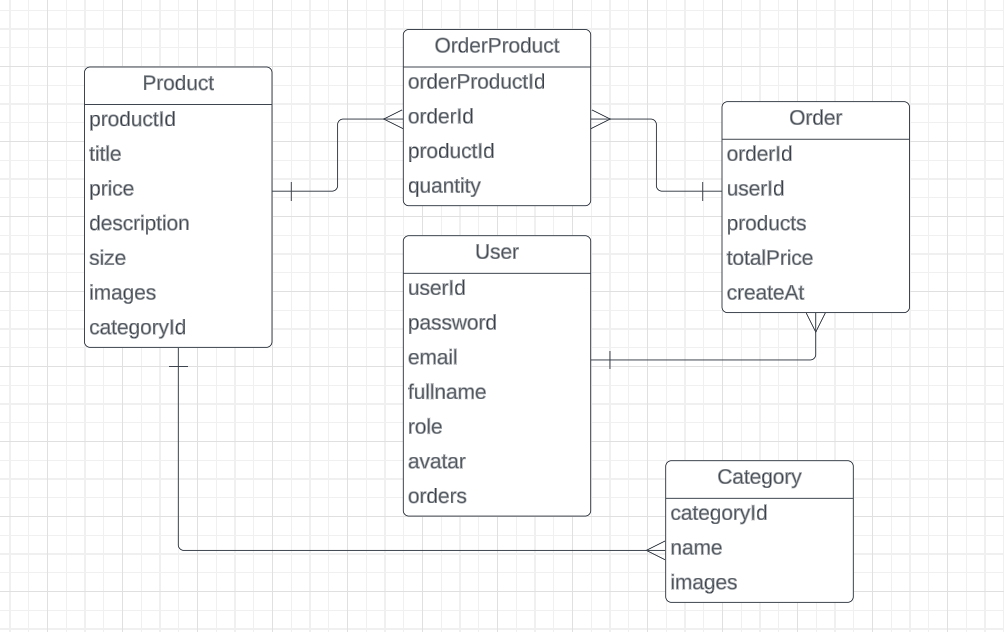
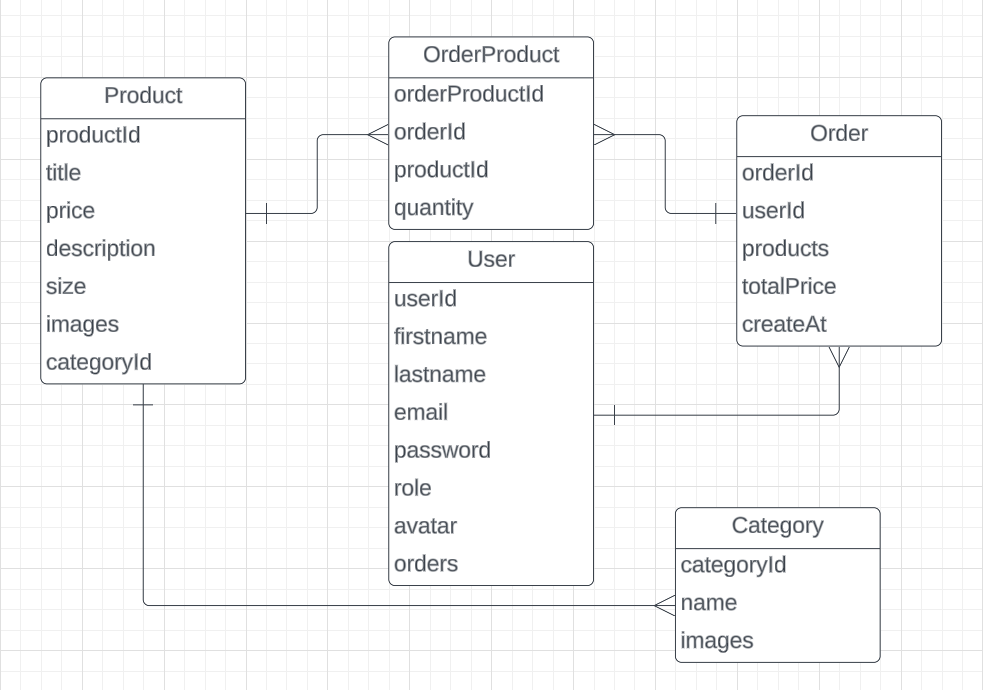
adding type for query in controller, updating User model schema

diff --git a/src/controllers/products.ts b/src/controllers/products.ts
@@ -4,11 +4,11 @@ import mongoose from "mongoose";
 import ProductsService from "../services/products";
 import Product, { ProductDocument } from "../model/Product";
 import { InternalServerError, NotFoundError } from "../errors/ApiError";
-
+import { CategoryProductsQuery } from "../misc/type";
 
 // GET PRODUCTS
 export async function getAllProducts(request: Request, response: Response) {
-  const { limit = 2e64, offset = 0, searchQuery = "", minPrice = 0, maxPrice = 2e64 } = request.query;
+  const { limit = 2e64, offset = 0, searchQuery = "", minPrice = 0, maxPrice = 2e64 }: CategoryProductsQuery = request.query;
 
   const Products = await ProductsService.getAllProducts(
     Number(limit),
@@ -23,7 +23,7 @@ export async function getAllProducts(request: Request, response: Response) {
 
 // GET PRODUCTS BASED ON CATEGORY
 export async function getCategoryProducts(request: Request, response: Response) {
-  const { limit = 2e64, offset = 0, searchQuery = "", minPrice = 0, maxPrice = 2e64 } = request.query;
+  const { limit = 2e64, offset = 0, searchQuery = "", minPrice = 0, maxPrice = 2e64 }: CategoryProductsQuery = request.query;
 
   const Products = await ProductsService.getCategoryProducts(
     request.params.categoryId as string,

diff --git a/src/model/User.ts b/src/model/User.ts
@@ -6,7 +6,11 @@ const Schema = mongoose.Schema;
 export type UserDocument = Document & User;
 
 const UserSchema = new mongoose.Schema({
-  fullname: {
+  firstname: {
+    type: String,
+    required: true,
+  },
+  lastname: {
     type: String,
     required: true,
   },
@@ -28,6 +32,12 @@ const UserSchema = new mongoose.Schema({
     type: String,
     default: "https://picsum.photos/seed/picsum/600/400"
   },
+  orders: [
+    {
+    type: Schema.Types.ObjectId,
+    ref: "Order"
+    },
+  ],
 });
 
 export default mongoose.model<UserDocument>("Users", UserSchema);

diff --git a/src/model/Category.ts b/src/model/Category.ts
@@ -10,19 +10,9 @@ export const CategorySchema = new mongoose.Schema({
     require: true,
     unique: true,
   },
-
   image: {
     type: String,
     require: true,
-  },
-
-  isValid: {
-    type: Boolean,
-    default: true,
-  },
-  createdAt: {
-    type: Date,
-    default: Date.now(),
   },
 });
 

diff --git a/src/misc/type.ts b/src/misc/type.ts
@@ -13,6 +13,14 @@ export type Product = {
   categoryId: string;
 };
 
+export type CategoryProductsQuery = {
+  limit?: number;
+  offset?: number;
+  searchQuery?: string;
+  minPrice?: number;
+  maxPrice?: number;
+}
+
 export type User = {
   id: string;
   password: string;

diff --git a/src/middlewares/loggedInCheck.ts b/src/middlewares/loggedInCheck.ts
@@ -1,4 +1,5 @@
 import { NextFunction, Request, Response } from "express";
+
 import { UnauthorizedError } from "../errors/ApiError";
 import { User } from "../misc/type";
 
